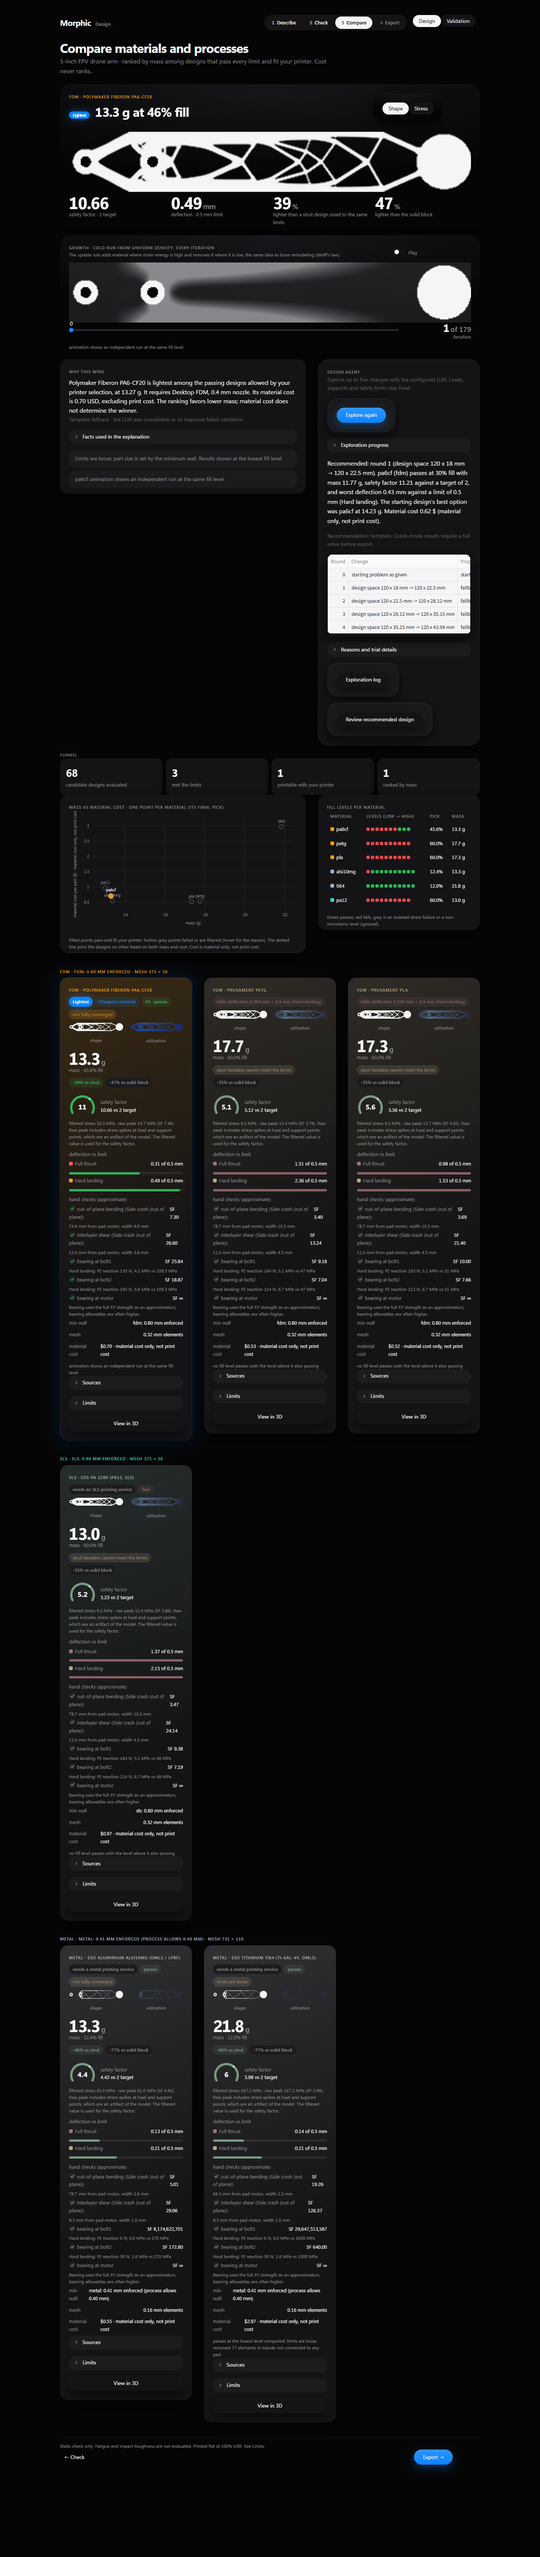
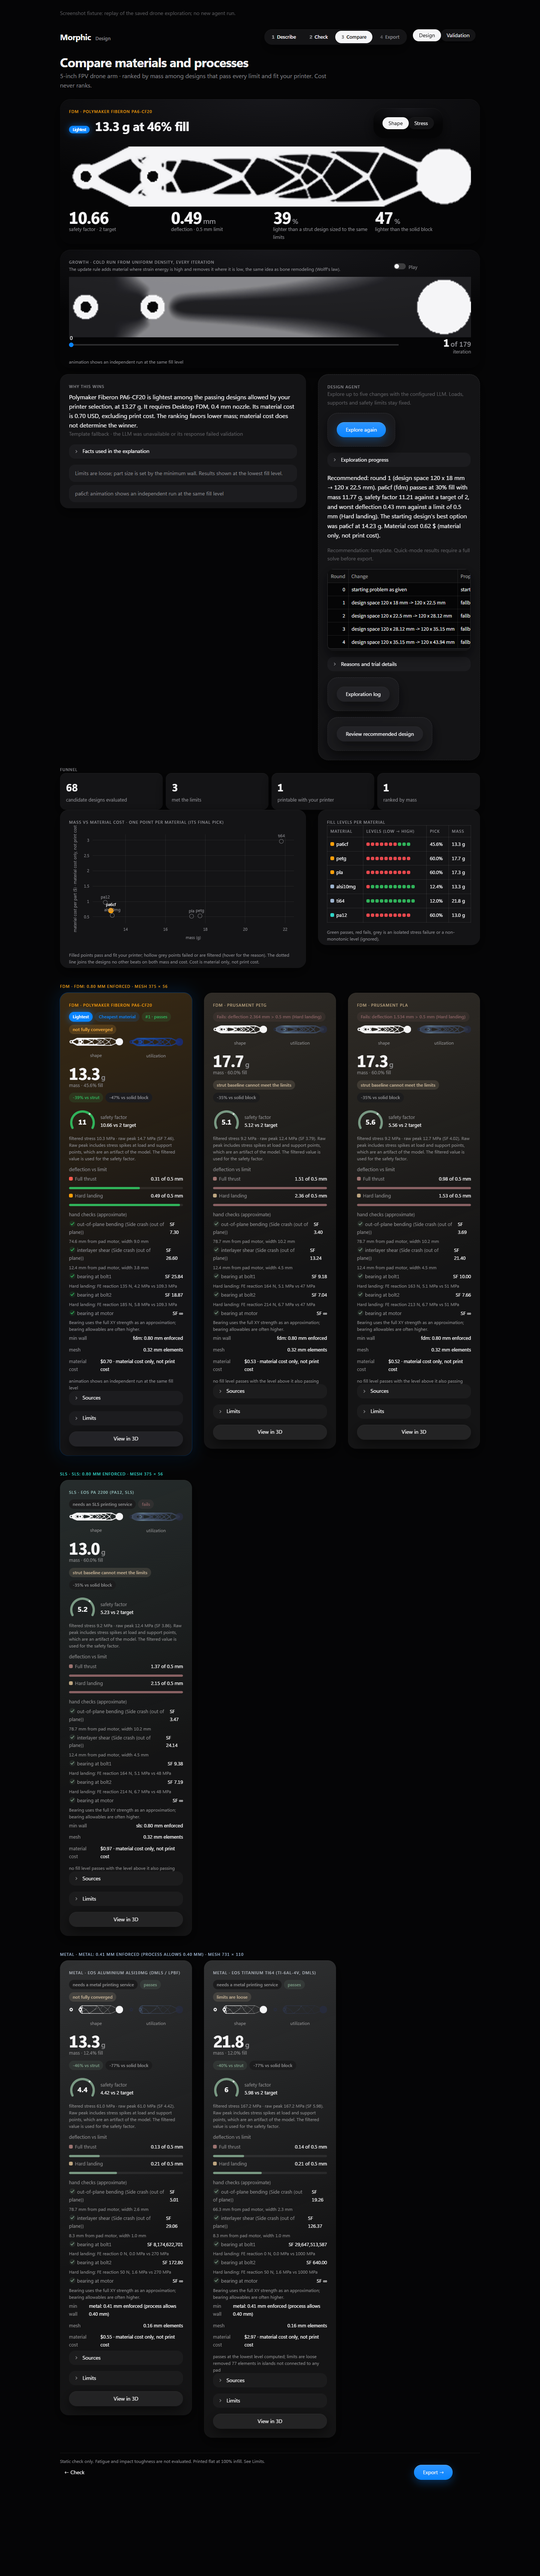
Record completed F and G integration, full tests and refreshed screens

diff --git a/.plans/reports/phase3_extra_screens.py b/.plans/reports/phase3_extra_screens.py
@@ -1,0 +1,85 @@
+"""Capture labelled local fixtures for sketch interpretation and a saved agent run."""
+import hashlib
+import json
+from datetime import datetime, timezone
+from pathlib import Path
+
+from playwright.sync_api import sync_playwright
+
+ROOT = Path(__file__).resolve().parents[2]
+OUT = ROOT / ".plans/reports/screens"
+BASE = "http://127.0.0.1:8797"
+evidence = {"captured_utc": datetime.now(timezone.utc).isoformat(), "screens": [],
+            "sketch": "Fixed test-provider interpretation; not a live vision result",
+            "agent": "Replay of drone-agent-backoff.json; not a new agent run"}
+
+
+def capture(page, name, locator=None):
+    page.locator('[data-testid="stStatusWidget"]').wait_for(state="hidden", timeout=360_000)
+    assert page.locator('[data-testid="stException"]').count() == 0
+    if locator is None:
+        page.set_viewport_size({"width": 1440, "height": 1000})
+        page.wait_for_timeout(1500)
+        height = page.locator(".block-container").evaluate("e => Math.ceil(e.scrollHeight + 160)")
+        page.set_viewport_size({"width": 1440, "height": min(height, 16000)})
+        for _ in range(5):
+            page.wait_for_timeout(1500)
+            bottom = page.locator(".block-container").evaluate("e => Math.ceil(e.getBoundingClientRect().bottom)")
+            if bottom + 24 <= page.viewport_size["height"]:
+                break
+            page.set_viewport_size({"width": 1440, "height": min(bottom + 48, 16000)})
+        assert bottom <= page.viewport_size["height"]
+    path = OUT / f"{name}.png"
+    if locator is None:
+        page.screenshot(path=str(path), full_page=True)
+    else:
+        locator.screenshot(path=str(path))
+    evidence["screens"].append({"file": str(path.relative_to(ROOT)),
+                                "sha256": hashlib.sha256(path.read_bytes()).hexdigest()})
+    print(f"Captured {name}", flush=True)
+
+
+with sync_playwright() as p:
+    browser = p.chromium.launch(channel="chrome", headless=True)
+    context = browser.new_context(viewport={"width": 1440, "height": 1000})
+    context.route("**/*", lambda route: route.continue_() if route.request.url.startswith(
+        (BASE + "/", "data:", "blob:")) else route.abort())
+    page = context.new_page()
+    page.goto(BASE + "/?step=0&capture=sketch")
+    upload = page.locator(".st-key-sketch_upload")
+    upload.wait_for(timeout=180_000)
+    capture(page, "sketch-1-describe")
+    capture(page, "sketch-2-control", upload)
+    upload.locator('input[type="file"]').set_input_files(str(ROOT / "examples/sketches/bracket_sketch.png"))
+    page.locator('.st-key-sketch_btn button:not([disabled])').wait_for(timeout=30_000)
+    page.wait_for_timeout(1500)
+    capture(page, "sketch-3-chosen", upload)
+    upload.locator('[data-testid="stFileUploaderDropzone"]').hover()
+    page.wait_for_timeout(500)
+    capture(page, "sketch-4-hover", upload)
+    page.locator(".st-key-sketch_btn button").click()
+    page.locator(".st-key-card_interpretation_warnings").wait_for(timeout=120_000)
+    page.get_by_role("button", name="Generate designs", exact=True).wait_for(timeout=120_000)
+    evidence["warnings"] = page.locator(".st-key-card_interpretation_warnings").inner_text()
+    capture(page, "sketch-5-check")
+    page.close()
+
+    page = context.new_page()
+    page.goto(BASE + "/?demo=drone_arm&step=2&capture=agent")
+    review = page.get_by_role("button", name="Review recommended design", exact=True)
+    review.wait_for(timeout=360_000)
+    page.get_by_role("button", name="Export →", exact=True).wait_for(timeout=360_000)
+    capture(page, "6-drone-agent")
+    # Crop around the agent's containing card; the full view carries the replay label.
+    panel = page.locator(".st-key-agent_panel")
+    assert "Design agent" in panel.inner_text() or "DESIGN AGENT" in panel.inner_text()
+    assert "Recommendation:" in panel.inner_text()
+    capture(page, "6-drone-agent-panel", panel)
+    review.click()
+    page.get_by_role("button", name="Generate designs", exact=True).wait_for(timeout=120_000)
+    assert page.get_by_text("Check the problem", exact=True).count() > 0
+    capture(page, "7-agent-review")
+    page.close()
+    browser.close()
+
+(ROOT / ".plans/reports/phase3-extra-screens.json").write_text(json.dumps(evidence, indent=2), encoding="utf-8")

diff --git a/.plans/reports/phase3_capture_app.py b/.plans/reports/phase3_capture_app.py
@@ -1,0 +1,34 @@
+"""Isolated screenshot fixtures. Production app keeps its live LLM adapter unchanged."""
+import json
+import runpy
+import sys
+from pathlib import Path
+
+import streamlit as st
+
+ROOT = Path(__file__).resolve().parents[2]
+sys.path.insert(0, str(ROOT))
+
+from app import data, integration
+from morphic import agent, llm, sketch
+from morphic.problem import problem_from_dict
+from tests.sketch_sample import FAKE_ANSWER
+
+mode = st.query_params.get("capture")
+if mode == "agent":
+    st.caption("Screenshot fixture: replay of the saved drone exploration; no new agent run.")
+    if not st.session_state.get("capture_seeded"):
+        path = ROOT / ".plans/reports/drone-agent-backoff.json"
+        saved = json.loads(path.read_text(encoding="utf-8"))
+        job = integration.AgentJob(problem_from_dict(saved["starting_problem"]), path=path)
+        job.log = agent.log_from_dict(saved)
+        job.messages = ["Saved exploration replay for screenshot verification."]
+        job.done.set()
+        key = data.load_results(data.CACHE_DIR / "drone_arm")["key"]
+        st.session_state.agent_jobs = {key: job}
+        st.session_state.capture_seeded = True
+elif mode == "sketch":
+    st.caption("Screenshot fixture: sample sketch with a fixed test-provider interpretation.")
+    sketch._default_llm = lambda *a, **k: llm.LLMResult(FAKE_ANSWER, "fake", "fake-vision")
+
+runpy.run_path(str(ROOT / "app/streamlit_app.py"), run_name="__main__")

diff --git a/.plans/reports/phase3_browser.py b/.plans/reports/phase3_browser.py
@@ -26,6 +26,8 @@ SHOTS = {
 
 def ready(page, name):
     page.wait_for_selector(".mx-title", timeout=180_000)
+    if name == "1-describe":
+        page.locator(".st-key-sketch_upload").wait_for(timeout=180_000)
     if name == "5-validation":
         page.locator(".st-key-card_hole").wait_for(timeout=180_000)
     if name == "4-export":
@@ -75,6 +77,7 @@ with sync_playwright() as playwright:
             for stem in ("rc_arm", "drone_arm", "aero_bracket"):
                 assert page.locator(f".st-key-preview_{stem}").count() > 0
             evidence["describe_upload_controls"] = page.locator('input[type="file"]').count()
+            assert evidence["describe_upload_controls"] == 1
         if name == "3-compare":
             evidence["explanation"] = page.locator(".st-key-card_explain").inner_text()
         if name == "4-export":

diff --git a/.plans/reports/DIGEST.md b/.plans/reports/DIGEST.md
@@ -2,11 +2,11 @@ Morphic consolidated digest - 2026-10-21
 
 Scope and current master
 This digest consolidates workspace reports, saved test evidence, integration runs and the latest status check.
-Master before this documentation commit: ed06259. The working tree was clean.
-A, B, C, D and E are merged. F and G are finished and committed locally, but remain unmerged.
-The app is running on localhost port 8765; its health endpoint returned 200 during this digest check.
-Latest full master suite: 156 passed, zero failures/errors/skips, including slow tests, after merging E.
-No tests were rerun for this documentation-only change. Counts below reflect different branch baselines.
+Master source commit: c693b93, following F merge 731b582. Final evidence is committed separately.
+All seven workspaces A through G are merged locally, in the approved order.
+The integrated app was relaunched on localhost port 8765 after F and G.
+Latest full master suite: 194 passed, zero failures/errors/skips, including slow tests and renderer tests.
+F's merge passed 183 tests before G was merged. Historical branch counts use different baselines.
 All Git work remains local: no pushes, remote changes, pull requests or uploads.
 Configured LLM calls remain enabled; credentials are read only from .env and are never included in reports.
 
@@ -58,34 +58,35 @@ Describe now has three real cached-shape preview cards, computed headline values
 Check gained instrument readouts, load-case pills and pad/arrow glows; Validation plots use the same palette.
 Tests: 156 passed on the branch; 156 passed again after merge, including slow tests, with zero failures/skips.
 Remaining visual issues: pad labels can overlap support symbols; Validation tables retain thin cell borders.
-Describe's redesign must be retained when integrating F's upload control.
+Describe's redesign is retained, with F's theme-token upload control below the text area.
 
-Workspace F - emdash/f-sketch-0l68c - finished, not merged
+Workspace F - emdash/f-sketch-0l68c - merged
 Commits: fedb7c4 and f01eb92. Worktree is clean, with no uncommitted changes.
-Report: .plans/reports/sketch.md in F's worktree, not yet present in master.
+Report: .plans/reports/sketch.md, now present in master.
 Built a theme-token upload control, image preparation, Gemini/Claude vision requests and sketch-to-draft parsing.
 Reuses the text parser's schema, defaults and provenance; routes successful readings into the existing Check screen.
 Includes a sample sketch, approved problem, fake-provider browser checks and 27 new tests.
 Saved full-suite XML confirms 179 passed with zero failures/errors/skips. No live vision call was tested.
 Its Claude Code transcript ends with a completion message at 15:27 EDT, not approval/error/usage-limit blockage.
-Open: show sketch interpretation warnings on Check; use sketch-specific failure wording; validate live readings.
+Check now shows interpretation warnings and preserves them after edits; layout/handoff regression tests pass.
+Open: sketch-specific parse-failure wording and live vision validation.
 Sketch attempts allow 90 seconds, versus text's 45; all transport retries can extend the wait to 515 seconds.
 HEIC is unsupported. Provider-specific image assumptions/detail settings and Claude text token limits need live validation.
-Recommendation: merge the completed branch, preserving E's Describe layout and the existing retry/throttle behavior.
+Merged as 731b582, retaining E's layout and existing retry/throttle behavior; 183 full-suite tests passed.
 
-Workspace G - emdash/g-renders-us52v - finished, not merged
+Workspace G - emdash/g-renders-us52v - merged
 Commit: 35185c1. Worktree is clean, with no uncommitted changes.
-Report: .plans/reports/renders.md in G's worktree, not yet present in master.
+Report: .plans/reports/renders.md, now present in master.
 Built an off-screen PyVista renderer, H.264 writer, optional render dependencies and 11 rendering tests.
 Reads saved density/utilization fields and cold-run snapshots; never invokes the solver or invents intermediate shapes.
 Four finished local clips: RC arm, drone arm, aerospace bracket and RC arm FDM/SLS/metal side-by-side.
 All four were read back as 1920 x 1080, 30 fps H.264; durations are about 17-19 seconds.
-Tests reported: 21 targeted tests and 162 fast-suite tests passed. The full suite including slow tests was not run.
+Branch tests: 21 targeted and 162 fast tests passed. Integrated full suite: 194 passed, including slow tests.
 Its Claude Code transcript ends with a completion message at 15:34 EDT, not approval/error/usage-limit blockage.
-Clips live in the worktree's ignored renders directory; Git merges will not copy those MP4s into master.
+All four clips were copied to master's ignored renders directory and SHA-256 checked against G's originals.
 Limits: stair-stepped FE-grid walls; growth begins at saved iteration 1; only RC has all three process reruns.
 Winners' growth runs differ from checked designs; a labelled picture dissolve ends on the checked design.
-Recommendation: merge, ensure rendering dependencies are available, run the full suite, and copy videos locally.
+Merged as c693b93; optional rendering dependencies installed from local cache; no skipped tests.
 
 Integration and validation history
 Merged C, D, B, A in that order: c34f096, 0e1a2c8, 91755ab, 999bcaa.
@@ -115,16 +116,16 @@ The pipeline therefore kept the passing refinement; this is not an unqualified c
 Evidence: .plans/reports/drone-full-results.json and retry-and-full-solve-summary.json.
 Geometry and arrays: .plans/live_runs/full-resolution/drone_best_pa6cf, ignored by Git.
 
-Remaining integration work and evidence status
-Phase 3 is incomplete: merge F, run/fix the full suite, then merge G and run/fix the full suite again.
-Keep E's redesign, place F's upload control using theme tokens, and review the shared adapter/state handoff.
-Copy G's ignored MP4s locally if they are needed beside master; retain their provenance footnotes.
-Then launch the final app, exercise upload-to-Check and exports, and retake the final integrated screenshots.
-Current screenshots 1-describe through 5-validation show master with E, without F/G; export checks passed again.
-Older screenshots 6-drone-agent, 6-drone-agent-panel and 7-agent-review were not retaken after E.
-Phase 3 evidence commit: ed06259. phase3-progress.json predates F/G completion; this digest supersedes that readiness status.
+Integration evidence and remaining follow-ups
+Phase 3 source integration is complete; full-suite XML is saved for both F and G merges.
+Final app screenshots and browser results are in .plans/reports/screens and phase3-browser-acceptance.json.
+Upload-to-Check screenshots use a labelled fixed test-provider fixture, not a live vision interpretation.
+Agent-result/review screenshots replay the genuine saved drone exploration, labelled as a replay.
+No new design exploration was requested or run for this screenshot refresh; production live calls remain enabled.
+Video-copy hashes are recorded in phase3-video-copies.json; MP4s remain ignored and local.
+phase3-progress.json and phase3-extra-screens.json record final scope and screenshot provenance.
 Recover provider quota before validating live vision and a fresh live recommendation; do not disable live calls.
 Investigate/refine the unconverged drone candidate before claiming a converged final optimization.
 Shared physics limits remain: static linear-elastic 2D plane stress, constant extrusion and approximate hand checks.
 Fatigue, impact toughness, buckling and physical print testing are not validated; printed-material assumptions still apply.
-No merges or runtime changes were performed while writing this digest.
+No pushes, remote changes, pull requests or uploads were performed.
